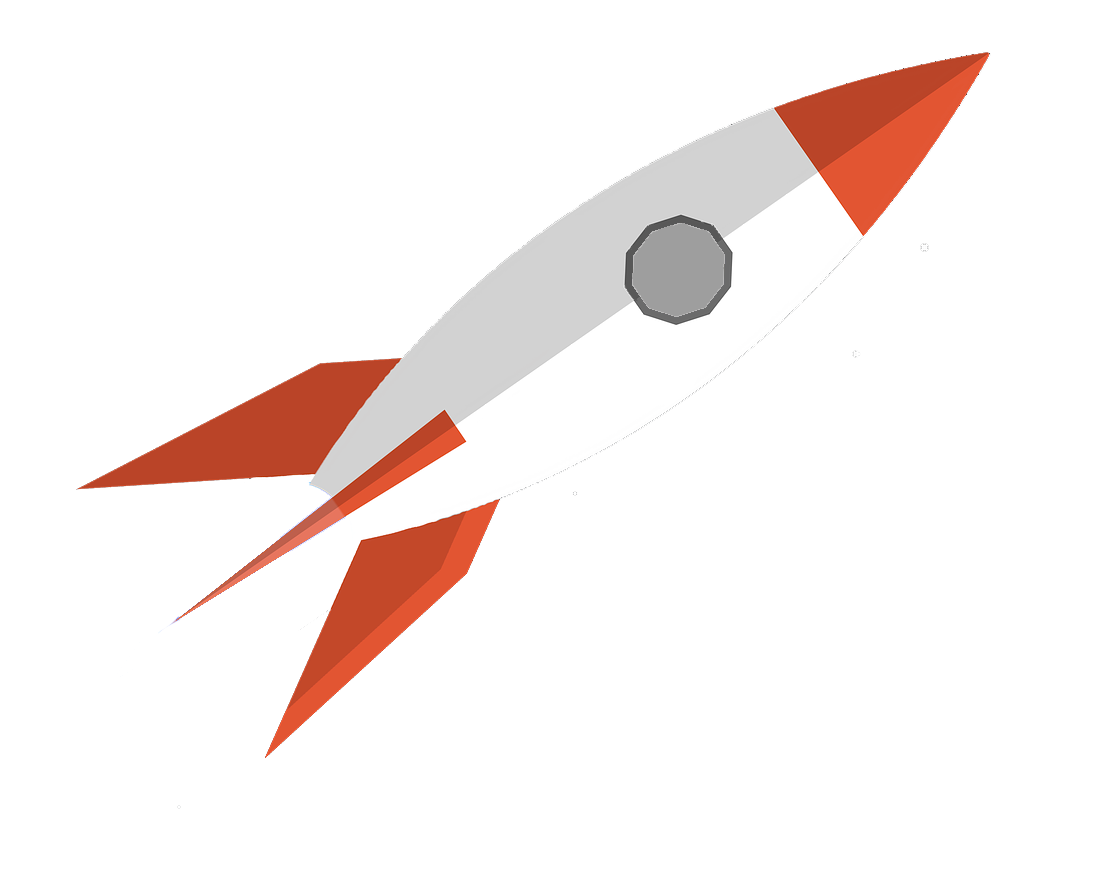
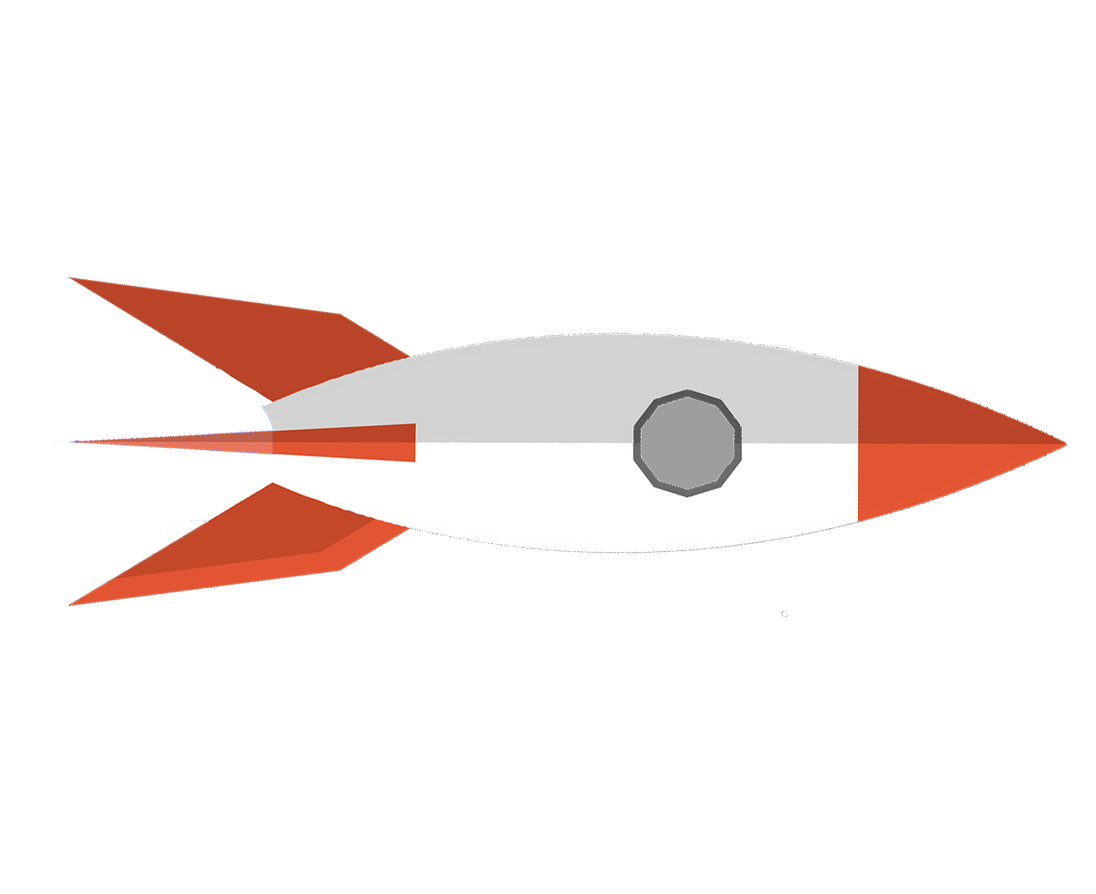
maj3

Changed region(s): [[0.062, 0.0604, 0.9927, 0.8456]]

diff --git a/src/Tableau1.js b/src/Tableau1.js
@@ -1,7 +1,7 @@
 let obj = 1;
 let planet=1;
 let cloud=1;
-let fusex=1;
+
 
 
 class Tableau1 extends Phaser.Scene{
@@ -1397,10 +1397,11 @@ class Tableau1 extends Phaser.Scene{
                 case Phaser.Input.Keyboard.KeyCodes.T:
                     me.fad.play();
                     me.fuse1.setVisible(true)
+
                     break;
                 case Phaser.Input.Keyboard.KeyCodes.Y:
                     me.sold.play();
-
+                    me.fuse1.setVisible(false)
                     break;
                 case Phaser.Input.Keyboard.KeyCodes.U:
                     me.lad.play();
@@ -1450,20 +1451,21 @@ class Tableau1 extends Phaser.Scene{
          */
 
         /**   création fusé   */
-        this.fuse1=this.add.sprite(-100,Math.random()*100,'fuse').setOrigin(0,0);
+        this.fuse1=this.add.sprite(-500,Math.random()*100,'fuse').setOrigin(0,0);
         this.fuse1.setVisible(false)
         this.fuse1.scale=0.1;
-        this.fuse1.angle=30;
+        this.fuse1.alpha=0.95;
+        this.fuse1.angle=0;
         this.tweens.add({
             targets: this.fuse1,
-            x: 2000,
+            x: 3000,
             y: Math.random()*200,
             duration: 3000,
             ease: 'linear',
-            yoyo: false,
-            repeat: 0,
-            delay: 0,
-            flipY: true,
+            flipX: true,
+            yoyo: true,
+            repeat: -1,
+            loopdelay: Math.random()*100,
         });
 
 
@@ -1485,8 +1487,15 @@ class Tableau1 extends Phaser.Scene{
             frameRate: 25,
             repeat: 0
         });
+/**
+        this.anims.create({
+            key: 'supra2',
+            frames: this.getFrames("supra",8),
+            frameRate: -25,
+            repeat: 0
+        });
 
-
+*/
         /**   création trou noir   */
         this.hole1=this.add.image(0,0,'hole'+Math.round(1+Math.random()*6)).setOrigin(0,0);
         this.hole1.setVisible(false)
@@ -1600,208 +1609,208 @@ class Tableau1 extends Phaser.Scene{
         /**création étoile*/
         this.star1=this.add.image(0,0,'star-1').setOrigin(0,0);
         this.star1.setVisible(false)
-        this.star1.setRandomPosition(1,2)
+        this.star1.setRandomPosition()
         this.star1.scale=0.1;
 
         this.star2=this.add.image(0,0,'star-2').setOrigin(0,0);
         this.star2.setVisible(false)
-        this.star2.setRandomPosition(1,2)
+        this.star2.setRandomPosition()
         this.star2.scale=0.1;
 
         this.star3=this.add.image(0,0,'star-3').setOrigin(0,0);
         this.star3.setVisible(false)
-        this.star3.setRandomPosition(1,2)
+        this.star3.setRandomPosition()
         this.star3.scale=0.1;
 
         this.star4=this.add.image(0,0,'star-4').setOrigin(0,0);
         this.star4.setVisible(false)
-        this.star4.setRandomPosition(1,2)
+        this.star4.setRandomPosition()
         this.star4.scale=0.1;
 
         this.star5=this.add.image(0,0,'star-5').setOrigin(0,0);
         this.star5.setVisible(false)
-        this.star5.setRandomPosition(1,2)
+        this.star5.setRandomPosition()
         this.star5.scale=0.1;
 
         this.star6=this.add.image(0,0,'star-6').setOrigin(0,0);
         this.star6.setVisible(false)
-        this.star6.setRandomPosition(1,2)
+        this.star6.setRandomPosition()
         this.star6.scale=0.1;
 
         this.star7=this.add.image(0,0,'star-7').setOrigin(0,0);
         this.star7.setVisible(false)
-        this.star7.setRandomPosition(1,2)
+        this.star7.setRandomPosition()
         this.star7.scale=0.1;
 
         this.star8=this.add.image(0,0,'star-8').setOrigin(0,0);
         this.star8.setVisible(false)
-        this.star8.setRandomPosition(1,2)
+        this.star8.setRandomPosition()
         this.star8.scale=0.1;
 
         this.star9=this.add.image(0,0,'star-9').setOrigin(0,0);
         this.star9.setVisible(false)
-        this.star9.setRandomPosition(1,2)
+        this.star9.setRandomPosition()
         this.star9.scale=0.1;
 
         this.star10=this.add.image(0,0,'star-10').setOrigin(0,0);
         this.star10.setVisible(false)
-        this.star10.setRandomPosition(1,2)
+        this.star10.setRandomPosition()
         this.star10.scale=0.1;
 
         this.star11=this.add.image(0,0,'star-11').setOrigin(0,0);
         this.star11.setVisible(false)
-        this.star11.setRandomPosition(1,2)
+        this.star11.setRandomPosition()
         this.star11.scale=0.1;
 
         this.star12=this.add.image(0,0,'star-12').setOrigin(0,0);
         this.star12.setVisible(false)
-        this.star12.setRandomPosition(1,2)
+        this.star12.setRandomPosition()
         this.star12.scale=0.1;
 
         this.star13=this.add.image(0,0,'star-13').setOrigin(0,0);
         this.star13.setVisible(false)
-        this.star13.setRandomPosition(1,2)
+        this.star13.setRandomPosition()
         this.star13.scale=0.1;
 
         this.star14=this.add.image(0,0,'star-14').setOrigin(0,0);
         this.star14.setVisible(false)
-        this.star14.setRandomPosition(1,2)
+        this.star14.setRandomPosition()
         this.star14.scale=0.1;
 
         this.star15=this.add.image(0,0,'star-15').setOrigin(0,0);
         this.star15.setVisible(false)
-        this.star15.setRandomPosition(1,2)
+        this.star15.setRandomPosition()
         this.star15.scale=0.1;
 
         this.star16=this.add.image(0,0,'star-16').setOrigin(0,0);
         this.star16.setVisible(false)
-        this.star16.setRandomPosition(1,2)
+        this.star16.setRandomPosition()
         this.star16.scale=0.1;
 
         this.star17=this.add.image(0,0,'star-17').setOrigin(0,0);
         this.star17.setVisible(false)
-        this.star17.setRandomPosition(1,2)
+        this.star17.setRandomPosition()
         this.star17.scale=0.1;
 
         this.star18=this.add.image(0,0,'star-18').setOrigin(0,0);
         this.star18.setVisible(false)
-        this.star18.setRandomPosition(1,2)
+        this.star18.setRandomPosition()
         this.star18.scale=0.1;
 
         this.star19=this.add.image(0,0,'star-19').setOrigin(0,0);
         this.star19.setVisible(false)
-        this.star19.setRandomPosition(1,2)
+        this.star19.setRandomPosition()
         this.star19.scale=0.1;
 
         this.star20=this.add.image(0,0,'star-20').setOrigin(0,0);
         this.star20.setVisible(false)
-        this.star20.setRandomPosition(1,2)
+        this.star20.setRandomPosition()
         this.star20.scale=0.1;
 
         this.star21=this.add.image(0,0,'star-21').setOrigin(0,0);
         this.star21.setVisible(false)
-        this.star21.setRandomPosition(1,2)
+        this.star21.setRandomPosition()
         this.star21.scale=0.1;
 
         this.star22=this.add.image(0,0,'star-22').setOrigin(0,0);
         this.star22.setVisible(false)
-        this.star22.setRandomPosition(1,2)
+        this.star22.setRandomPosition()
         this.star22.scale=0.1;
 
         this.star23=this.add.image(0,0,'star-23').setOrigin(0,0);
         this.star23.setVisible(false)
-        this.star23.setRandomPosition(1,2)
+        this.star23.setRandomPosition()
         this.star23.scale=0.1;
 
 
         this.star24=this.add.image(0,0,'star-24').setOrigin(0,0);
         this.star24.setVisible(false)
-        this.star24.setRandomPosition(1,2)
+        this.star24.setRandomPosition()
         this.star24.scale=0.1;
 
         this.star25=this.add.image(0,0,'star-25').setOrigin(0,0);
         this.star25.setVisible(false)
-        this.star25.setRandomPosition(1,2)
+        this.star25.setRandomPosition()
         this.star25.scale=0.1;
 
         this.star26=this.add.image(0,0,'star-26').setOrigin(0,0);
         this.star26.setVisible(false)
-        this.star26.setRandomPosition(1,2)
+        this.star26.setRandomPosition()
         this.star26.scale=0.1;
 
         this.star27=this.add.image(0,0,'star-27').setOrigin(0,0);
         this.star27.setVisible(false)
-        this.star27.setRandomPosition(1,2)
+        this.star27.setRandomPosition()
         this.star27.scale=0.1;
 
         this.star28=this.add.image(0,0,'star-28').setOrigin(0,0);
         this.star28.setVisible(false)
-        this.star28.setRandomPosition(1,2)
+        this.star28.setRandomPosition()
         this.star28.scale=0.1;
 
         this.star29=this.add.image(0,0,'star-29').setOrigin(0,0);
         this.star29.setVisible(false)
-        this.star29.setRandomPosition(1,2)
+        this.star29.setRandomPosition()
         this.star29.scale=0.1;
 
         this.star30=this.add.image(0,0,'star-30').setOrigin(0,0);
         this.star30.setVisible(false)
-        this.star30.setRandomPosition(1,2)
+        this.star30.setRandomPosition()
         this.star30.scale=0.1;
 
         this.star31=this.add.image(0,0,'star-31').setOrigin(0,0);
         this.star31.setVisible(false)
-        this.star31.setRandomPosition(1,2)
+        this.star31.setRandomPosition()
         this.star31.scale=0.1;
 
         this.star32=this.add.image(0,0,'star-32').setOrigin(0,0);
         this.star32.setVisible(false)
-        this.star32.setRandomPosition(1,2)
+        this.star32.setRandomPosition()
         this.star32.scale=0.1;
 
         this.star33=this.add.image(0,0,'star-33').setOrigin(0,0);
         this.star33.setVisible(false)
-        this.star33.setRandomPosition(1,2)
+        this.star33.setRandomPosition()
         this.star33.scale=0.1;
 
         this.star34=this.add.image(0,0,'star-34').setOrigin(0,0);
         this.star34.setVisible(false)
-        this.star34.setRandomPosition(1,2)
+        this.star34.setRandomPosition()
         this.star34.scale=0.1;
 
         this.star35=this.add.image(0,0,'star-35').setOrigin(0,0);
         this.star35.setVisible(false)
-        this.star35.setRandomPosition(1,2)
+        this.star35.setRandomPosition()
         this.star35.scale=0.1;
 
         this.star36=this.add.image(0,0,'star-36').setOrigin(0,0);
         this.star36.setVisible(false)
-        this.star36.setRandomPosition(1,2)
+        this.star36.setRandomPosition()
         this.star36.scale=0.1;
 
         this.star37=this.add.image(0,0,'star-37').setOrigin(0,0);
         this.star37.setVisible(false)
-        this.star37.setRandomPosition(1,2)
+        this.star37.setRandomPosition()
         this.star37.scale=0.1;
 
         this.star38=this.add.image(0,0,'star-38').setOrigin(0,0);
         this.star38.setVisible(false)
-        this.star38.setRandomPosition(1,2)
+        this.star38.setRandomPosition()
         this.star38.scale=0.1;
 
         this.star38=this.add.image(0,0,'star-39').setOrigin(0,0);
         this.star38.setVisible(false)
-        this.star38.setRandomPosition(1,2)
+        this.star38.setRandomPosition()
         this.star38.scale=0.1;
 
         this.star39=this.add.image(0,0,'star-40').setOrigin(0,0);
         this.star39.setVisible(false)
-        this.star39.setRandomPosition(1,2)
+        this.star39.setRandomPosition()
         this.star39.scale=0.1;
 
         this.star40=this.add.image(0,0,'star-41').setOrigin(0,0);
         this.star40.setVisible(false)
-        this.star40.setRandomPosition(1,2)
+        this.star40.setRandomPosition()
         this.star40.scale=0.1;
 
         this.star41=this.add.image(0,0,'star-42').setOrigin(0,0);
@@ -2062,10 +2071,7 @@ class Tableau1 extends Phaser.Scene{
 
 
         /**création planet*/
-        let n = 0;
-        while (n<360) {
-            n++;
-        }
+
 
         this.planet1=this.add.image(0,0,'planet-1').setOrigin(0,0);
         this.planet1.setVisible(false)
